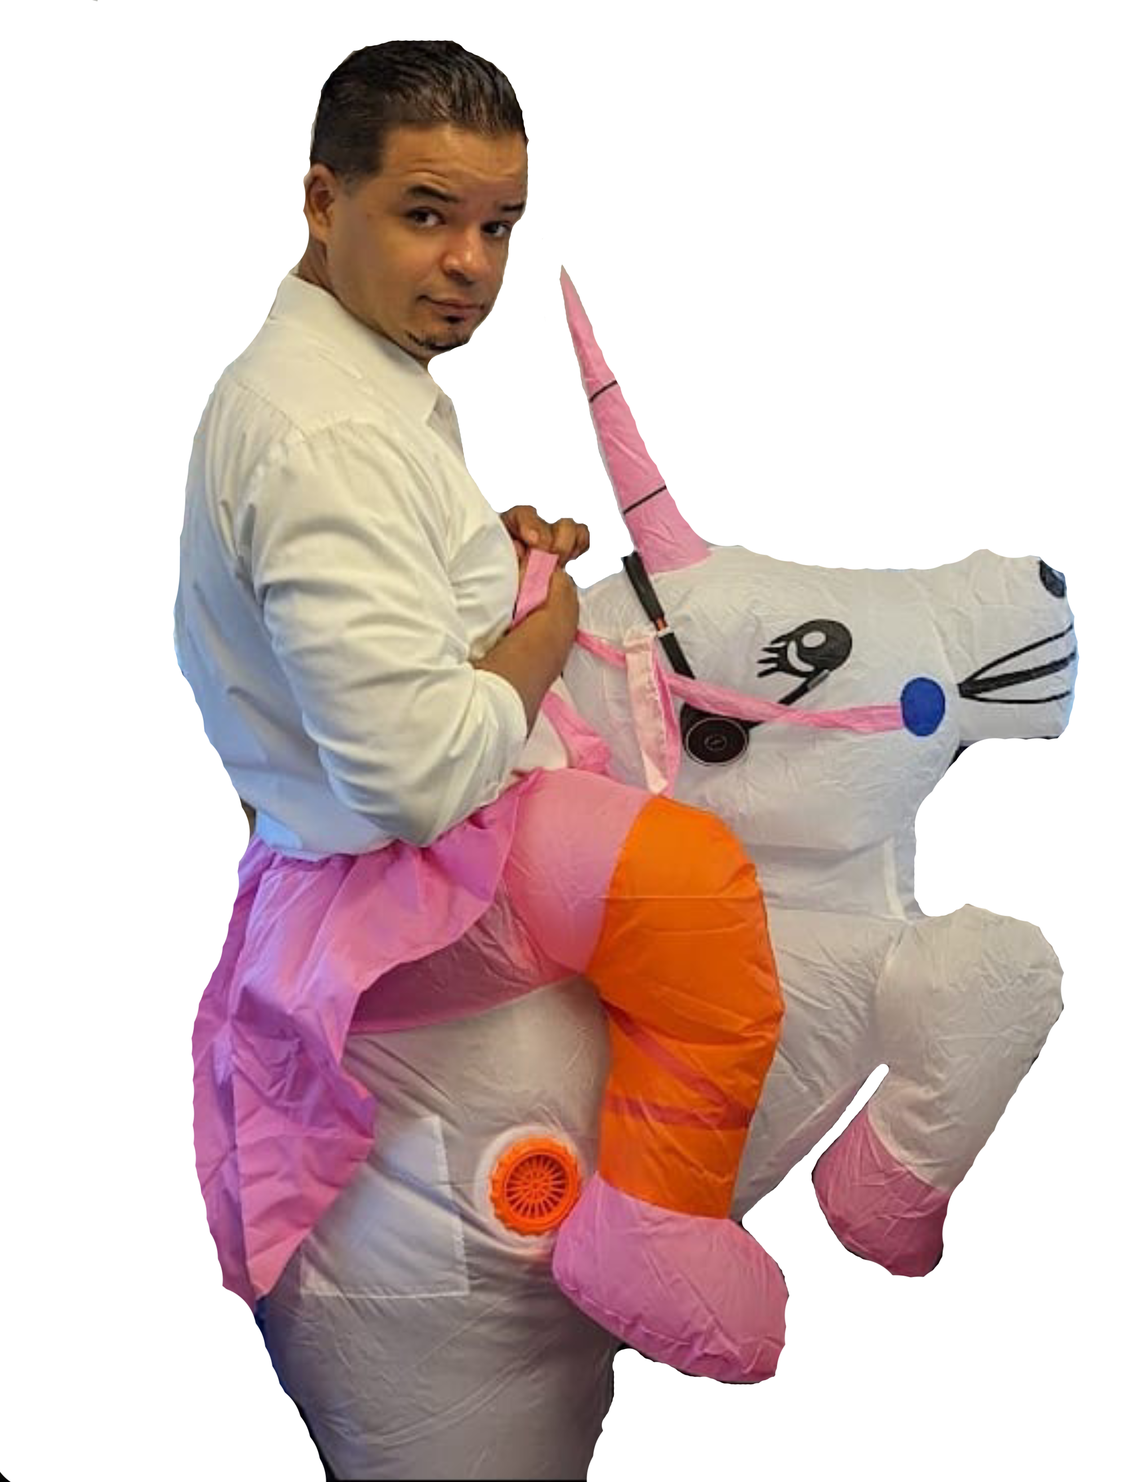
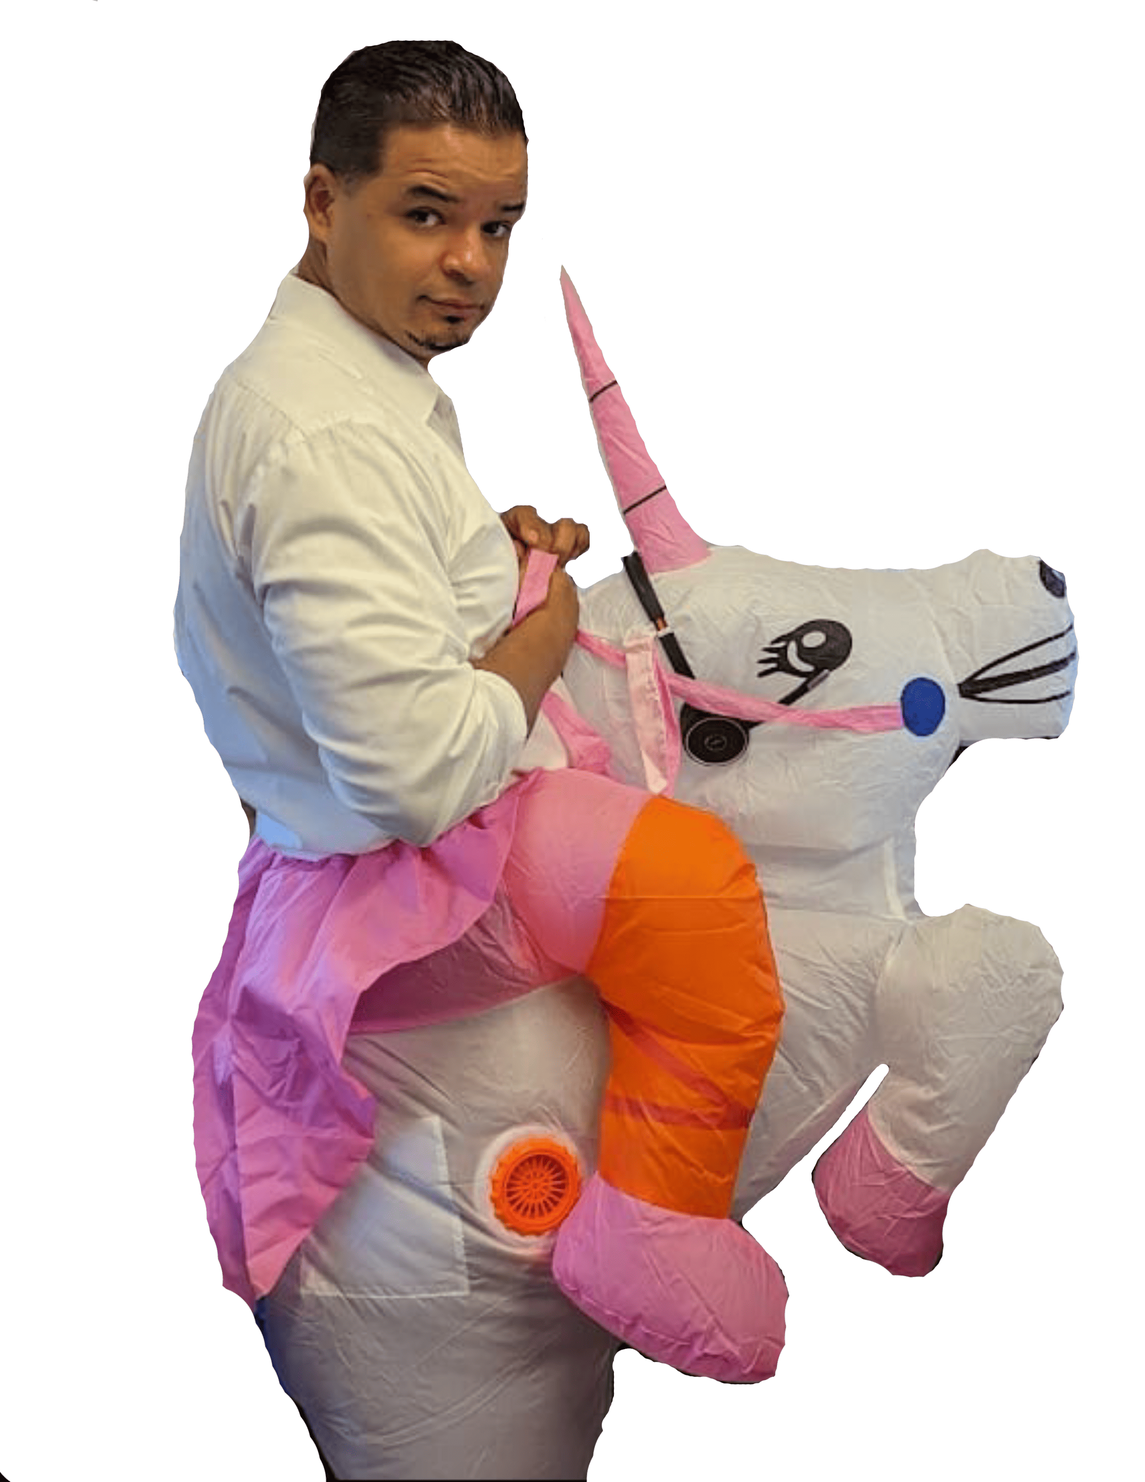
Add joke leaderboard, State of the Kingdom chronicle, invite link, and compress assets
Completes the growth-features batch that was interrupted mid-task
(the changelog content grounded in real git history, the leaderboard
card, the invite-summons card, and the asset compression were already
done; this finishes the JS wiring):

- Joke leaderboard: reads the visitor's own registered pilgrim name
  (same cookie/localStorage as the game) and shows it as the sole
  real entry, framed in-universe as "no one else has ever logged in"
  -- no shared/cross-visitor storage, as instructed.
- "State of the Kingdom" chronicle: a new top-level section with 10
  decree-styled changelog entries already grounded in the repo's real
  history (bilingual toggle, anthem player, the game, SEO, security,
  responsiveness, the motto change).
- Referral/invite link: generates a shareable URL with the visitor's
  name as a ?ref= query parameter (client-side only, no backend);
  copies via the Clipboard API with a select-and-manual-copy fallback
  when it's unavailable; and detects an incoming ?ref= parameter to
  show a "summons received from X" banner.
- Asset compression: pavel-head.png 2.89MB -> 1.62MB and
  pavel-unicorn.png 3.32MB -> 1.49MB (same dimensions, verified as
  valid PNGs), no filename/path changes needed.

All new copy is bilingual; nothing is stored or sent anywhere beyond
the visitor's own browser and the URL they choose to share.

diff --git a/reino-de-pavel.dc.html b/reino-de-pavel.dc.html
@@ -703,6 +703,105 @@
   });
 })();
 </script>
+<script>
+/* Tabla de adoradores (broma, sin backend) + convocatoria/enlace de
+   invitacion (pvl-board- / pvl-invite-). Mismo candado de doble ejecucion
+   que el resto de <helmet>. Lee el nombre del peregrino con la misma
+   cookie/localStorage que "El Mundo de Pavel"; el enlace de invitacion es
+   solo texto generado en el navegador, nunca se envia a ningun sitio. */
+(function(){
+  if (window.__pvlGrowth) return;
+  window.__pvlGrowth = true;
+  var doc = document;
+
+  function leerNombrePeregrino(){
+    var m = doc.cookie.match(/(?:^|; )pavelense=([^;]*)/);
+    if (m) {
+      try { return decodeURIComponent(m[1]).trim(); } catch (e) { return String(m[1] || '').trim(); }
+    }
+    try { return (localStorage.getItem('pavelense') || '').trim(); } catch (e) { return ''; }
+  }
+  function lang(){ return (window.PavelI18N && window.PavelI18N.get()) || 'en'; }
+
+  /* ---------- Tabla de adoradores (broma) ---------- */
+  function pintarTabla(){
+    var el = doc.getElementById('pvl-board-line1');
+    if (!el) return;
+    var n = leerNombrePeregrino();
+    var L = lang();
+    if (n) {
+      el.textContent = L === 'es' ? ('1. ' + n + ', que existe.') : ('1. ' + n + ', who exists.');
+    } else {
+      el.textContent = L === 'es' ? '1. Tú, en cuanto te registres en El Mundo de Pavel.' : '1. You, once you register in The World of Pavel.';
+    }
+  }
+  if (doc.readyState === 'loading') doc.addEventListener('DOMContentLoaded', pintarTabla);
+  else pintarTabla();
+  setInterval(pintarTabla, 800);
+  doc.addEventListener('pavel:langchange', pintarTabla);
+
+  /* ---------- Convocatoria / enlace de invitacion ---------- */
+  function baseUrl(){
+    return location.origin + location.pathname;
+  }
+  function pintarEnlace(){
+    var inp = doc.getElementById('pvl-invite-link');
+    if (!inp) return;
+    var n = leerNombrePeregrino();
+    var url = baseUrl();
+    if (n) url += '?ref=' + encodeURIComponent(n);
+    inp.value = url;
+  }
+  if (doc.readyState === 'loading') doc.addEventListener('DOMContentLoaded', pintarEnlace);
+  else pintarEnlace();
+  setInterval(pintarEnlace, 800);
+
+  function copiarEnlace(){
+    var inp = doc.getElementById('pvl-invite-link');
+    var status = doc.getElementById('pvl-invite-status');
+    if (!inp) return;
+    var L = lang();
+    function marcarCopiado(){
+      if (status) status.textContent = L === 'es' ? 'Convocatoria copiada.' : 'Summons copied.';
+    }
+    function marcarFallo(){
+      inp.focus();
+      inp.select();
+      if (status) status.textContent = L === 'es' ? 'No se pudo copiar solo: seleccionado, cópielo con Ctrl/Cmd+C.' : 'Could not copy automatically: selected, copy it with Ctrl/Cmd+C.';
+    }
+    if (navigator.clipboard && navigator.clipboard.writeText) {
+      navigator.clipboard.writeText(inp.value).then(marcarCopiado, marcarFallo);
+    } else {
+      marcarFallo();
+    }
+    setTimeout(function(){ if (status) status.textContent = ''; }, 5000);
+  }
+  doc.addEventListener('click', function(e){
+    if (e.target.closest && e.target.closest('#pvl-invite-copy')) {
+      e.preventDefault();
+      copiarEnlace();
+    }
+  });
+
+  /* ---------- "Convocatoria recibida de..." si se llega con ?ref= ---------- */
+  function pintarReferido(){
+    var box = doc.getElementById('pvl-invite-referred-by');
+    if (!box) return;
+    var params;
+    try { params = new URLSearchParams(location.search); } catch (e) { return; }
+    var ref = (params.get('ref') || '').trim().slice(0, 32);
+    if (!ref) return;
+    var es = doc.getElementById('pvl-invite-referrer-es');
+    var en = doc.getElementById('pvl-invite-referrer-en');
+    if (es) es.textContent = ref;
+    if (en) en.textContent = ref;
+    box.classList.remove('pvl-hide');
+    box.style.removeProperty('display');
+  }
+  if (doc.readyState === 'loading') doc.addEventListener('DOMContentLoaded', pintarReferido);
+  else pintarReferido();
+})();
+</script>
 </helmet>
 
 <section data-screen-label="01 Portada" style="position:relative;overflow:hidden;padding:0;background:
@@ -733,6 +832,7 @@
         <a href="#constitucion"><span data-lang="es">Constitución</span><span data-lang="en">Constitution</span></a>
         <a href="#descartes">Descartes</a>
         <a href="#ciudadania"><span data-lang="es">Ciudadanía</span><span data-lang="en">Citizenship</span></a>
+        <a href="#pvl-changelog"><span data-lang="es">Crónica</span><span data-lang="en">Chronicle</span></a>
       </nav>
       <div class="pvl-lang-switch" role="group" aria-label="Language / Idioma">
         <button type="button" data-lang-btn="en">EN</button>
@@ -1423,7 +1523,128 @@
             </div>
           </div>
         </div>
+
+        <div id="pvl-board-card" style="background:#f6f1e3;color:#201a33;padding:24px 24px 20px;box-shadow:0 18px 40px rgba(0,0,0,.5);position:relative">
+          <div style="position:absolute;inset:9px;border:1px solid rgba(143,111,42,.4);pointer-events:none"></div>
+          <div style="position:relative">
+            <div style="font:600 8px/1.4 'IBM Plex Mono',monospace;letter-spacing:.22em;color:#6b4f16"><span data-lang="es">TABLA DE ADORADORES · REGISTRO OFICIAL</span><span data-lang="en">LEADERBOARD OF ADORERS · OFFICIAL RECORD</span></div>
+            <div style="margin-top:14px;font:400 13px/1.6 'IBM Plex Sans',sans-serif;color:#201a33">
+              <div id="pvl-board-line1">1. …</div>
+              <div style="margin-top:8px;color:rgba(32,26,51,.7)"><span data-lang="es">2. Nadie más ha iniciado sesión jamás.</span><span data-lang="en">2. No one else has ever logged in.</span></div>
+            </div>
+            <p style="margin:14px 0 0;font:300 11px/1.6 'IBM Plex Sans',sans-serif;color:rgba(32,26,51,.62)"><span data-lang="es">El Ministerio de Estadística confirma que esta ausencia de competidores no es un fallo técnico, sino un reflejo fiel de la realidad: solo hay un trono, y está ocupado.</span><span data-lang="en">The Ministry of Statistics confirms this absence of competitors is not a technical error, but an accurate reflection of reality: there is only one throne, and it is occupied.</span></p>
+            <div style="margin-top:14px;padding-top:10px;border-top:1px solid rgba(32,26,51,.18);font:400 8px/1.4 'IBM Plex Mono',monospace;letter-spacing:.12em;color:rgba(32,26,51,.5)"><span data-lang="es">RANKING ACTUALIZADO EN TIEMPO REAL · SIN SERVIDORES DE POR MEDIO</span><span data-lang="en">RANKING UPDATED IN REAL TIME · NO SERVERS INVOLVED</span></div>
+          </div>
+        </div>
       </div>
+    </div>
+  </div>
+</section>
+
+<section id="pvl-changelog" data-screen-label="17 Crónica del Reino" style="padding:88px 40px;background:#0b0620">
+  <div style="max-width:1180px;margin:0 auto">
+    <div style="display:flex;align-items:baseline;gap:16px;flex-wrap:wrap;border-bottom:1px solid rgba(244,239,226,.14);padding-bottom:16px">
+      <span style="font:500 10px/1 'IBM Plex Mono',monospace;letter-spacing:.26em;color:#d8b25c">09</span>
+      <h2 style="margin:0;font-family:'Bodoni Moda',serif;font-weight:700;font-size:34px;letter-spacing:-.01em;color:#f7f2e6"><span data-lang="es">Estado del Reino · Crónica de decretos</span><span data-lang="en">State of the Kingdom · Chronicle of decrees</span></h2>
+    </div>
+    <p style="margin:22px 0 0;max-width:66ch;font:300 14px/1.7 'IBM Plex Sans',sans-serif;color:rgba(244,239,226,.72)"><span data-lang="es">La corte no lleva actas confidenciales: cada obra del Reino fue, en efecto, construida, y queda aquí registrada como decreto — en el orden real en que sucedió.</span><span data-lang="en">The court keeps no confidential minutes: every work of the Kingdom was, in fact, built, and is recorded here as a decree — in the real order it happened.</span></p>
+
+    <div id="pvl-changelog-list" style="margin-top:40px;display:grid;gap:0">
+
+      <div style="display:grid;grid-template-columns:104px 1fr;gap:20px;padding:22px 0;border-top:1px solid rgba(244,239,226,.14)">
+        <div style="font:500 9.5px/1.5 'IBM Plex Mono',monospace;letter-spacing:.14em;text-transform:uppercase;color:#e9c874">Decreto N.º 10<br><span style="color:rgba(244,239,226,.45)">12 sept.</span></div>
+        <div>
+          <h3 style="margin:0;font-family:'Bodoni Moda',serif;font-weight:700;font-size:19px;color:#f7f2e6"><span data-lang="es">Decreto de la Memoria</span><span data-lang="en">Decree on Memory</span></h3>
+          <p style="margin:8px 0 0;font:300 13.5px/1.65 'IBM Plex Sans',sans-serif;color:rgba(244,239,226,.75)"><span data-lang="es">Por decreto real, el Reino ordena llevar un registro permanente de sus propios decretos, para que la historia pueda consultarse sin tener que fiarse de la memoria de nadie. Esta misma sección es ese registro.</span><span data-lang="en">By royal decree, the Kingdom orders a permanent record of its own decrees, so history can be consulted without having to trust anyone's memory. This very section is that record.</span></p>
+        </div>
+      </div>
+
+      <div style="display:grid;grid-template-columns:104px 1fr;gap:20px;padding:22px 0;border-top:1px solid rgba(244,239,226,.14)">
+        <div style="font:500 9.5px/1.5 'IBM Plex Mono',monospace;letter-spacing:.14em;text-transform:uppercase;color:#e9c874">Decreto N.º 9<br><span style="color:rgba(244,239,226,.45)">12 sept.</span></div>
+        <div>
+          <h3 style="margin:0;font-family:'Bodoni Moda',serif;font-weight:700;font-size:19px;color:#f7f2e6"><span data-lang="es">Decreto del Lema</span><span data-lang="en">Decree on the Motto</span></h3>
+          <p style="margin:8px 0 0;font:300 13.5px/1.65 'IBM Plex Sans',sans-serif;color:rgba(244,239,226,.75)"><span data-lang="es">Por decreto real, se refina el lema nacional: se retira la fórmula anterior, más áspera, y se adopta como divisa única "El Non Plus Ultra".</span><span data-lang="en">By royal decree, the national motto is refined: the harsher earlier wording is retired, and "The Non Plus Ultra" is adopted as the Crown's sole motto.</span></p>
+        </div>
+      </div>
+
+      <div style="display:grid;grid-template-columns:104px 1fr;gap:20px;padding:22px 0;border-top:1px solid rgba(244,239,226,.14)">
+        <div style="font:500 9.5px/1.5 'IBM Plex Mono',monospace;letter-spacing:.14em;text-transform:uppercase;color:#e9c874">Decreto N.º 8<br><span style="color:rgba(244,239,226,.45)">12 sept.</span></div>
+        <div>
+          <h3 style="margin:0;font-family:'Bodoni Moda',serif;font-weight:700;font-size:19px;color:#f7f2e6"><span data-lang="es">Decreto de la Grandeza Portátil</span><span data-lang="en">Decree on Portable Grandeur</span></h3>
+          <p style="margin:8px 0 0;font:300 13.5px/1.65 'IBM Plex Sans',sans-serif;color:rgba(244,239,226,.75)"><span data-lang="es">Por decreto real, el Palacio se redimensiona para recibir a peregrinos que lleguen por teléfono o tableta, sin que el trono se desborde de la pantalla; se restituye además la denominación de los billetes, ocultada por error en un decreto anterior.</span><span data-lang="en">By royal decree, the Palace is resized to receive pilgrims arriving by phone or tablet without the throne room spilling off the screen; the banknotes' denomination, hidden by an earlier decree's oversight, is restored.</span></p>
+        </div>
+      </div>
+
+      <div style="display:grid;grid-template-columns:104px 1fr;gap:20px;padding:22px 0;border-top:1px solid rgba(244,239,226,.14)">
+        <div style="font:500 9.5px/1.5 'IBM Plex Mono',monospace;letter-spacing:.14em;text-transform:uppercase;color:#e9c874">Decreto N.º 7<br><span style="color:rgba(244,239,226,.45)">11–12 sept.</span></div>
+        <div>
+          <h3 style="margin:0;font-family:'Bodoni Moda',serif;font-weight:700;font-size:19px;color:#f7f2e6"><span data-lang="es">Decreto del Muro y el Registro</span><span data-lang="en">Decree on the Wall and the Registry</span></h3>
+          <p style="margin:8px 0 0;font:300 13.5px/1.65 'IBM Plex Sans',sans-serif;color:rgba(244,239,226,.75)"><span data-lang="es">Por decreto real, el Ministerio de Seguridad sella el registro de peregrinos tras una cookie reforzada y levanta una Política de Seguridad de Contenido alrededor de cada recurso que carga el Palacio; el Sello Real (favicón) recibe permiso expreso para atravesar ese muro.</span><span data-lang="en">By royal decree, the Ministry of Security seals the pilgrim registry behind a hardened cookie and raises a Content Security Policy around every resource the Palace loads; the Royal Seal (favicon) is granted explicit passage through that wall.</span></p>
+        </div>
+      </div>
+
+      <div style="display:grid;grid-template-columns:104px 1fr;gap:20px;padding:22px 0;border-top:1px solid rgba(244,239,226,.14)">
+        <div style="font:500 9.5px/1.5 'IBM Plex Mono',monospace;letter-spacing:.14em;text-transform:uppercase;color:#e9c874">Decreto N.º 6<br><span style="color:rgba(244,239,226,.45)">11 sept.</span></div>
+        <div>
+          <h3 style="margin:0;font-family:'Bodoni Moda',serif;font-weight:700;font-size:19px;color:#f7f2e6"><span data-lang="es">Decreto de lo Hallable</span><span data-lang="en">Decree on Discoverability</span></h3>
+          <p style="margin:8px 0 0;font:300 13.5px/1.65 'IBM Plex Sans',sans-serif;color:rgba(244,239,226,.75)"><span data-lang="es">Por decreto real, se encargan mapas oficiales y normas de trato para los heraldos automatizados del mundo exterior — mapa del sitio, reglas para rastreadores, vistas previas para redes sociales y una descripción para cada imagen — de modo que también las máquinas sepan que el Reino existe.</span><span data-lang="en">By royal decree, official maps and rules of engagement are commissioned for the outside world's automated heralds — a sitemap, crawler rules, social preview cards, and a description for every image — so that machines, too, may know the Kingdom exists.</span></p>
+        </div>
+      </div>
+
+      <div style="display:grid;grid-template-columns:104px 1fr;gap:20px;padding:22px 0;border-top:1px solid rgba(244,239,226,.14)">
+        <div style="font:500 9.5px/1.5 'IBM Plex Mono',monospace;letter-spacing:.14em;text-transform:uppercase;color:#e9c874">Decreto N.º 5<br><span style="color:rgba(244,239,226,.45)">11 sept.</span></div>
+        <div>
+          <h3 style="margin:0;font-family:'Bodoni Moda',serif;font-weight:700;font-size:19px;color:#f7f2e6"><span data-lang="es">Decreto de la Planificación</span><span data-lang="en">Decree on Planning</span></h3>
+          <p style="margin:8px 0 0;font:300 13.5px/1.65 'IBM Plex Sans',sans-serif;color:rgba(244,239,226,.75)"><span data-lang="es">Por decreto real, el Ministerio de Planificación archiva su primer pergamino de obras futuras, a disposición de cualquier ciudadano que lo solicite.</span><span data-lang="en">By royal decree, the Ministry of Planning files its first scroll of future works, available to any citizen who asks to see it.</span></p>
+        </div>
+      </div>
+
+      <div style="display:grid;grid-template-columns:104px 1fr;gap:20px;padding:22px 0;border-top:1px solid rgba(244,239,226,.14)">
+        <div style="font:500 9.5px/1.5 'IBM Plex Mono',monospace;letter-spacing:.14em;text-transform:uppercase;color:#e9c874">Decreto N.º 4<br><span style="color:rgba(244,239,226,.45)">11 sept.</span></div>
+        <div>
+          <h3 style="margin:0;font-family:'Bodoni Moda',serif;font-weight:700;font-size:19px;color:#f7f2e6"><span data-lang="es">Decreto de las Lenguas</span><span data-lang="en">Decree on Tongues</span></h3>
+          <p style="margin:8px 0 0;font:300 13.5px/1.65 'IBM Plex Sans',sans-serif;color:rgba(244,239,226,.75)"><span data-lang="es">Por decreto real, la Corona reconoce el español y el inglés como lenguas oficiales por igual; toda proclama, formulario y documento del Reino hablará, de ahora en más, en ambas.</span><span data-lang="en">By royal decree, the Crown recognizes Spanish and English as equally official tongues; every proclamation, form and document of the Kingdom shall henceforth speak both.</span></p>
+        </div>
+      </div>
+
+      <div style="display:grid;grid-template-columns:104px 1fr;gap:20px;padding:22px 0;border-top:1px solid rgba(244,239,226,.14)">
+        <div style="font:500 9.5px/1.5 'IBM Plex Mono',monospace;letter-spacing:.14em;text-transform:uppercase;color:#e9c874">Decreto N.º 3<br><span style="color:rgba(244,239,226,.45)">11 sept.</span></div>
+        <div>
+          <h3 style="margin:0;font-family:'Bodoni Moda',serif;font-weight:700;font-size:19px;color:#f7f2e6"><span data-lang="es">Decreto de Apertura del Palacio</span><span data-lang="en">Decree Opening the Palace</span></h3>
+          <p style="margin:8px 0 0;font:300 13.5px/1.65 'IBM Plex Sans',sans-serif;color:rgba(244,239,226,.75)"><span data-lang="es">Por decreto real, se abren las puertas de "El Mundo de Pavel": todo peregrino puede inscribir su nombre, recorrer la sala del trono, adorar y, al llegar a la décima adoración, invocar al unicornio de unicornios.</span><span data-lang="en">By royal decree, the doors of "The World of Pavel" are opened: any pilgrim may register their name, walk the throne room, worship, and — upon the tenth act of worship — summon the unicorn of unicorns.</span></p>
+        </div>
+      </div>
+
+      <div style="display:grid;grid-template-columns:104px 1fr;gap:20px;padding:22px 0;border-top:1px solid rgba(244,239,226,.14)">
+        <div style="font:500 9.5px/1.5 'IBM Plex Mono',monospace;letter-spacing:.14em;text-transform:uppercase;color:#e9c874">Decreto N.º 2<br><span style="color:rgba(244,239,226,.45)">11 sept.</span></div>
+        <div>
+          <h3 style="margin:0;font-family:'Bodoni Moda',serif;font-weight:700;font-size:19px;color:#f7f2e6"><span data-lang="es">Decreto del Himno</span><span data-lang="en">Decree on the Anthem</span></h3>
+          <p style="margin:8px 0 0;font:300 13.5px/1.65 'IBM Plex Sans',sans-serif;color:rgba(244,239,226,.75)"><span data-lang="es">Por decreto real, se instituye "El Ruir del Unicornio" como himno del Reino, dispuesto a sonar en bucle eterno; una corrección posterior aseguró que el bucle, en efecto, no se detenga.</span><span data-lang="en">By royal decree, "The Roar of the Unicorn" is instituted as the Kingdom's anthem, set to loop without end; a later correction ensured the loop, in fact, never breaks.</span></p>
+        </div>
+      </div>
+
+      <div style="display:grid;grid-template-columns:104px 1fr;gap:20px;padding:22px 0;border-top:1px solid rgba(244,239,226,.14);border-bottom:1px solid rgba(244,239,226,.14)">
+        <div style="font:500 9.5px/1.5 'IBM Plex Mono',monospace;letter-spacing:.14em;text-transform:uppercase;color:#e9c874">Decreto N.º 1<br><span style="color:rgba(244,239,226,.45)">8 sept.</span></div>
+        <div>
+          <h3 style="margin:0;font-family:'Bodoni Moda',serif;font-weight:700;font-size:19px;color:#f7f2e6"><span data-lang="es">Decreto Fundacional</span><span data-lang="en">Founding Decree</span></h3>
+          <p style="margin:8px 0 0;font:300 13.5px/1.65 'IBM Plex Sans',sans-serif;color:rgba(244,239,226,.75)"><span data-lang="es">Por decreto real, queda inscrita la carta fundacional del Reino: escudo, bandera, documentos de identidad, moneda y sellos, y la doctrina "existo porque Pavel existe", reformulada a partir de Descartes.</span><span data-lang="en">By royal decree, the Kingdom's founding charter is inscribed: the coat of arms, flag, identity documents, currency and stamps, and the doctrine "I exist because Pavel exists," reformulated from Descartes.</span></p>
+        </div>
+      </div>
+
+    </div>
+
+    <div id="pvl-invite-card" style="margin-top:46px;background:#0d0725;border:1px solid rgba(216,178,92,.35);padding:30px clamp(20px,4vw,36px);display:grid;gap:14px">
+      <div style="font:600 8px/1.4 'IBM Plex Mono',monospace;letter-spacing:.24em;color:#d8b25c"><span data-lang="es">CONVOCATORIA DIPLOMÁTICA</span><span data-lang="en">DIPLOMATIC SUMMONS</span></div>
+      <h3 style="margin:0;font-family:'Bodoni Moda',serif;font-weight:700;font-size:23px;color:#f7f2e6"><span data-lang="es">Trae a otro peregrino a la corte</span><span data-lang="en">Bring another pilgrim to court</span></h3>
+      <p style="margin:0;max-width:64ch;font:300 13.5px/1.65 'IBM Plex Sans',sans-serif;color:rgba(244,239,226,.78)"><span data-lang="es">Ningún decreto se cumple sin testigos. Copia esta convocatoria y entrégala a quien merezca conocer el Reino — llegará con tu nombre ya anunciado ante el Ministerio.</span><span data-lang="en">No decree is complete without witnesses. Copy this summons and hand it to whoever deserves to know the Kingdom — they will arrive with your name already announced to the Ministry.</span></p>
+      <div id="pvl-invite-referred-by" class="pvl-hide" style="padding:10px 14px;border:1px solid rgba(216,178,92,.35);background:rgba(216,178,92,.08);font:400 12px/1.5 'IBM Plex Sans',sans-serif;color:#e9c874;max-width:52ch">
+        <span data-lang="es">Convocatoria diplomática recibida de <strong id="pvl-invite-referrer-es"></strong>.</span><span data-lang="en">Diplomatic summons received from <strong id="pvl-invite-referrer-en"></strong>.</span>
+      </div>
+      <div style="display:flex;gap:10px;flex-wrap:wrap;align-items:center">
+        <input id="pvl-invite-link" type="text" readonly aria-label="Invitation link" data-aria-es="Enlace de invitación" data-aria-en="Invitation link" style="flex:1 1 280px;min-width:0;padding:12px 14px;border:1px solid rgba(216,178,92,.4);background:#0b0620;color:#f4e0a8;font:400 12px/1.4 'IBM Plex Mono',monospace">
+        <button id="pvl-invite-copy" type="button" style="flex:none;padding:12px 18px;border:0;border-radius:2px;background:linear-gradient(180deg,#e9c874,#c99a3f);color:#1a1030;font:600 11px/1 'IBM Plex Sans',sans-serif;letter-spacing:.14em;text-transform:uppercase;cursor:pointer"><span data-lang="es">Copiar convocatoria</span><span data-lang="en">Copy summons</span></button>
+      </div>
+      <div id="pvl-invite-status" role="status" aria-live="polite" style="min-height:14px;font:500 10px/1.4 'IBM Plex Mono',monospace;letter-spacing:.1em;color:#8fe0a8"></div>
     </div>
   </div>
 </section>
